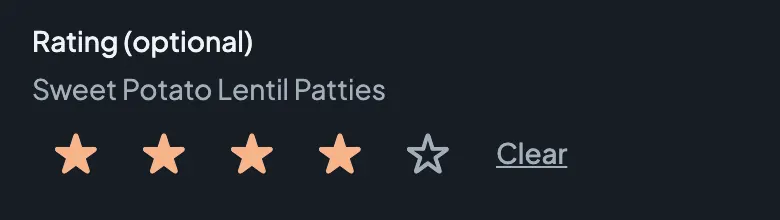
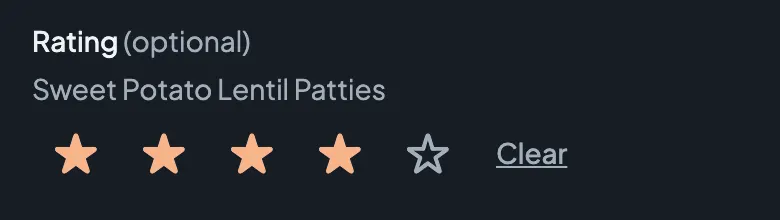
Guides: retake the three shots whose UI changed in 736, light and dark (738)
- meal-3-stars: "Rating (optional)" heading, suffix now quiet.
- serve-2-stars: same heading in the Serve sheet.
- serve-3-notes: Serve sheet "Reaction (optional)" / "Note (optional)",
  labels now in the text color with only the suffix quiet.

Same pipeline as 727 (CDP webp q78, 390x844 @2x, reduced motion, faked
clock 2026-10-03 11:56 / 11:59, isolated stack, light + dark with the
#0e1218 background override), same crop: each was located row by row
against the committed light image (MAD 1.40 / 1.28 / 1.16 = the changed
text) and both themes were captured at that clip. Alt text unchanged.

Every other guide image was checked against a fresh capture at its
committed crop, light and dark: all at q78 noise (MAD 0.47-1.64, the 727
baseline), including the two sheet shots 737 touches (serve-1-servings
0.47/0.74, meal-2-when 0.55/0.79), so the pinned header is invisible at
rest. No other retakes.

content.test.ts pins the three pairs at their original crop size.

Changed region(s): [[0.1538, 0.1364, 0.3385, 0.2727]]

diff --git a/client/src/features/safety/content.test.ts b/client/src/features/safety/content.test.ts
@@ -278,6 +278,22 @@ describe("dark guide screenshots", () => {
     }
   });
 
+  // Item 738: the three shots whose UI changed in 736 were retaken at the
+  // committed crop (located against the old light image), so their framing,
+  // and so their size, is what it was.
+  it("keeps the retaken 736 shots at their original crop size", () => {
+    const expected: Record<string, number[]> = {
+      "meal-3-stars": [780, 328],
+      "serve-2-stars": [780, 220],
+      "serve-3-notes": [780, 444],
+    };
+    for (const [name, dims] of Object.entries(expected)) {
+      for (const file of [`${name}.webp`, `${name}-dark.webp`]) {
+        expect(size(path.join(repoRoot, "client/public/guides", file)), file).toEqual(dims);
+      }
+    }
+  });
+
   it("follows the OS through a <source> media query when the app is on System", () => {
     const html = render("![A screenshot of the form](/guides/x-1-y.webp)");
     expect(html).toContain(
